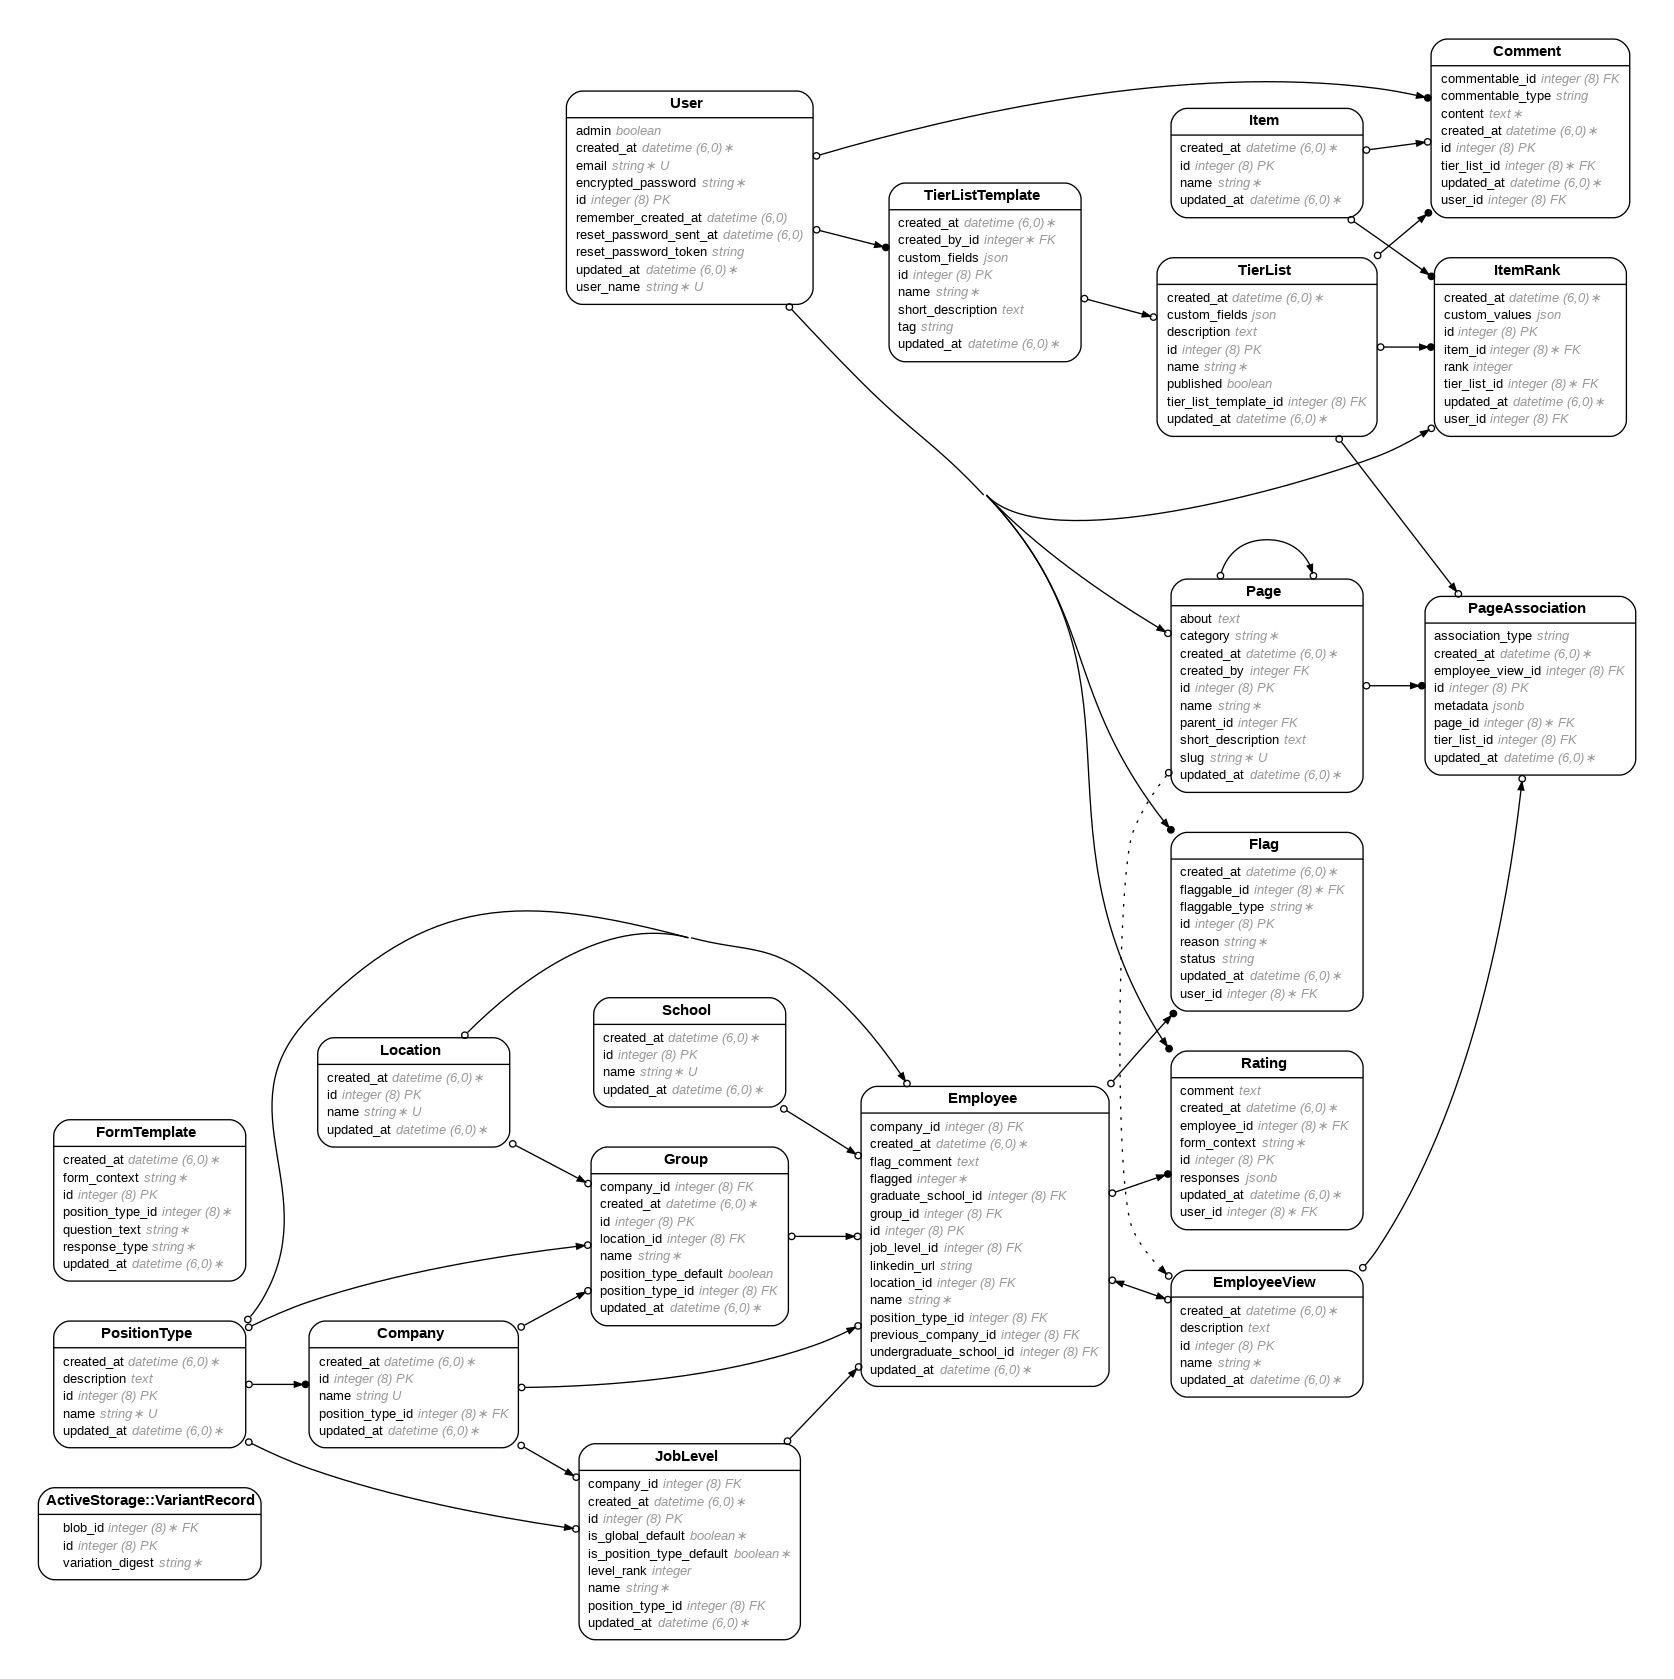
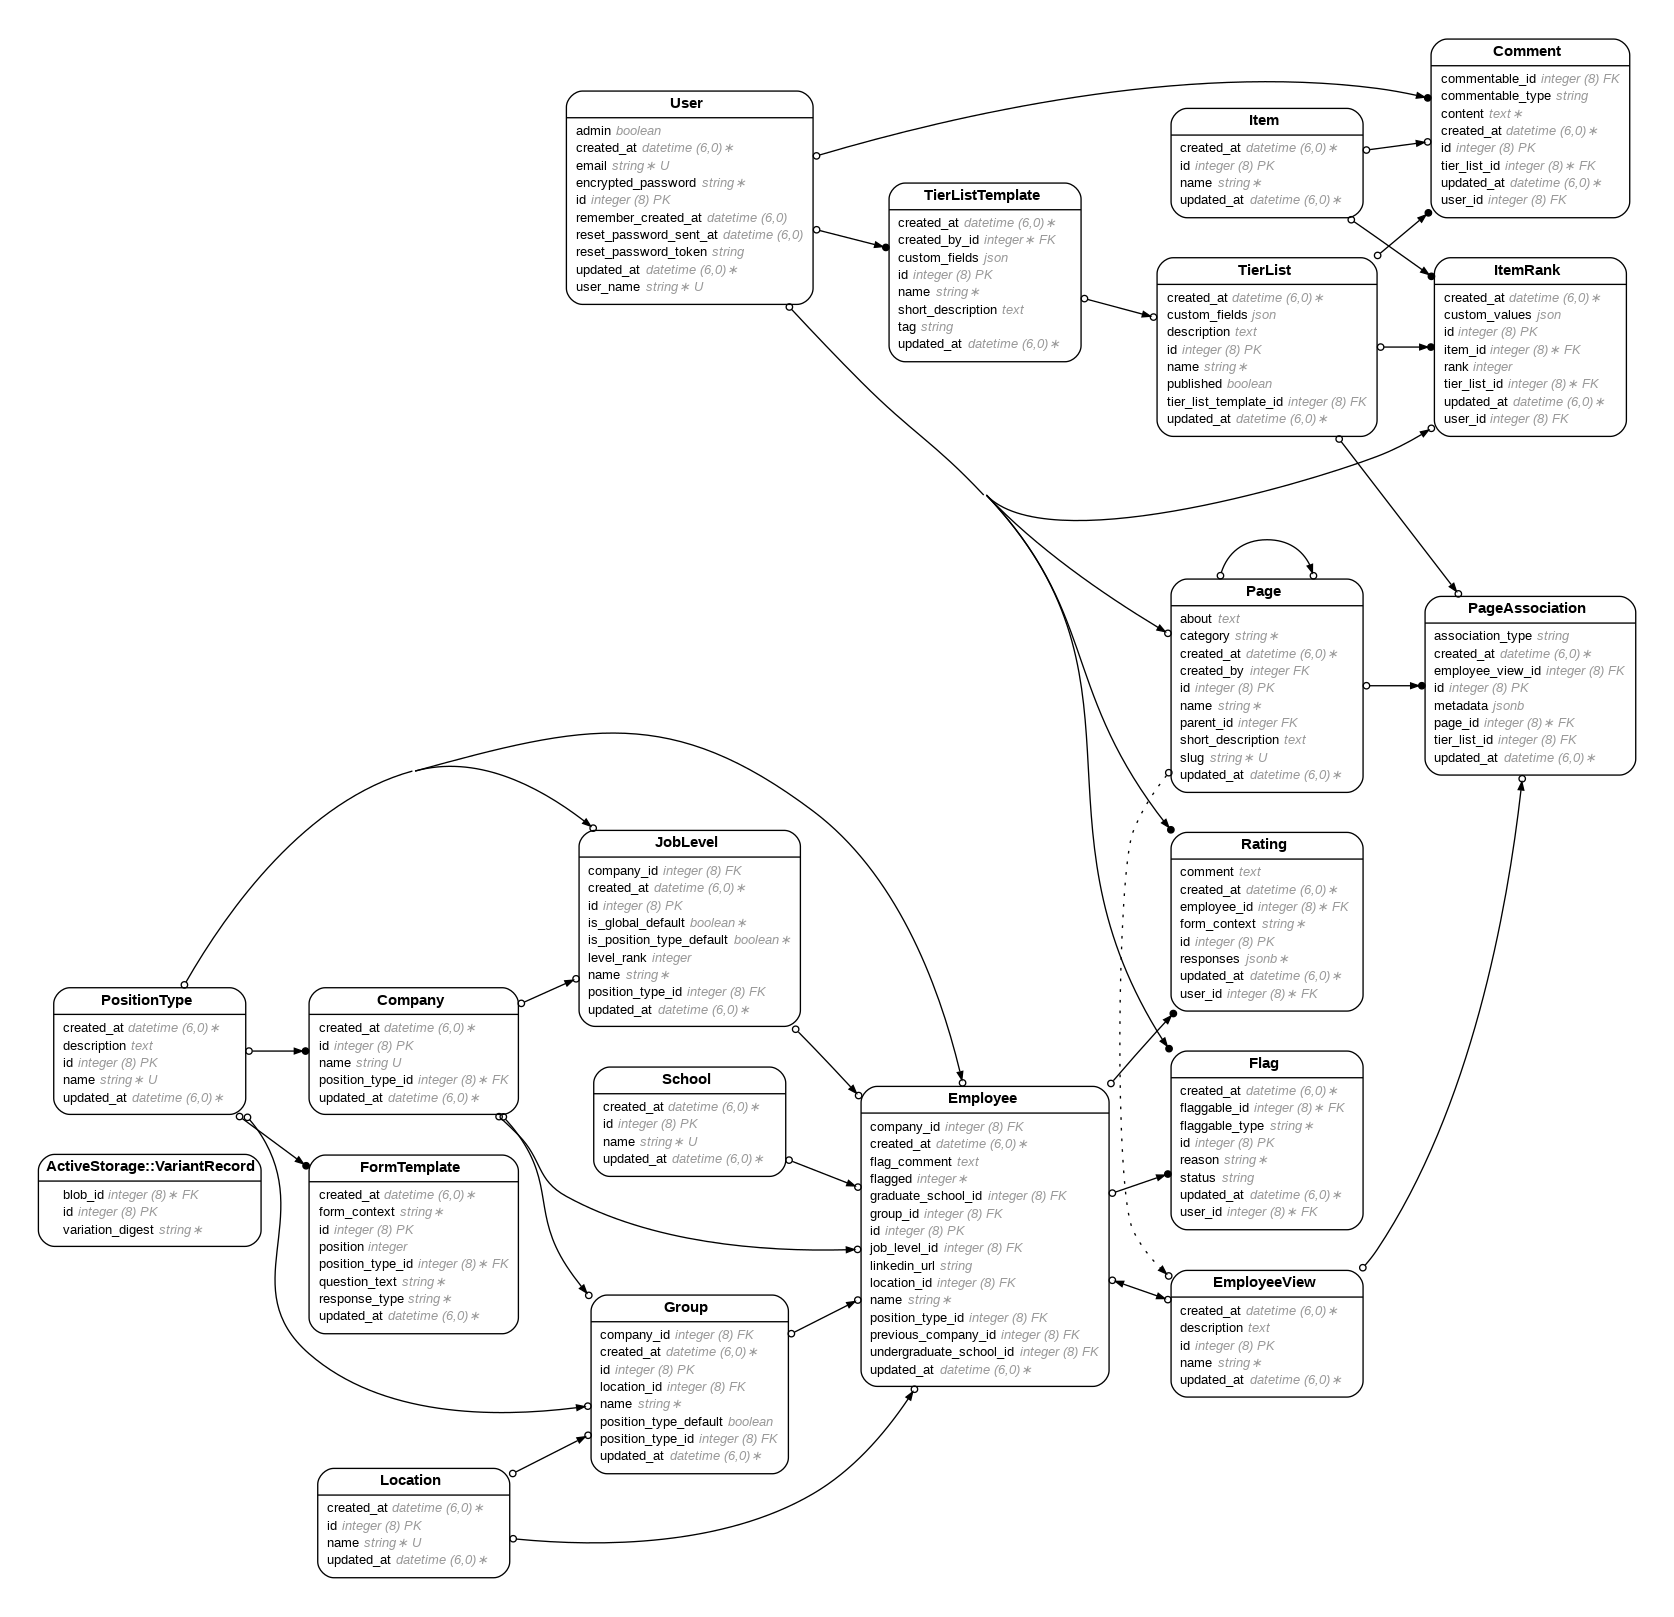
Added form templates to admin view

diff --git a/app/controllers/admin/form_templates_controller.rb b/app/controllers/admin/form_templates_controller.rb
@@ -1,0 +1,46 @@
+class Admin::FormTemplatesController < ApplicationController
+  before_action :set_form_template, only: [:edit, :update, :destroy]
+
+  def index
+    @form_templates = FormTemplate.includes(:position_type).order(:form_context, :position_type_id)
+  end
+
+  def new
+    @form_template = FormTemplate.new
+  end
+
+  def create
+    @form_template = FormTemplate.new(form_template_params)
+    if @form_template.save
+      redirect_to admin_form_templates_path, notice: 'Form template was successfully created.'
+    else
+      render :new, alert: 'There was an error creating the form template.'
+    end
+  end
+
+  def edit; end
+
+  def update
+    if @form_template.update(form_template_params)
+      redirect_to admin_form_templates_path, notice: 'Form template was successfully updated.'
+    else
+      render :edit, alert: 'There was an error updating the form template.'
+    end
+  end
+
+  def destroy
+    @form_template.destroy
+    redirect_to admin_form_templates_path, notice: 'Form template was successfully deleted.'
+  end
+
+  private
+
+  def set_form_template
+    @form_template = FormTemplate.find(params[:id])
+  end
+
+  def form_template_params
+    params.require(:form_template).permit(:position_type_id, :form_context, :question_text, :response_type, :position)
+  end
+  
+end

diff --git a/app/models/form_template.rb b/app/models/form_template.rb
@@ -4,6 +4,7 @@
 #
 #  id               :bigint           not null, primary key
 #  form_context     :string           not null
+#  position         :integer
 #  question_text    :string           not null
 #  response_type    :string           not null
 #  created_at       :datetime         not null
@@ -20,6 +21,16 @@
 #
 class FormTemplate < ApplicationRecord
   belongs_to :position_type
+  before_validation :set_default_position, on: :create
 
   validates :form_context, :question_text, :response_type, presence: true
+  
+  # Default scope to order by position
+  default_scope { order(:position) }
+
+  private
+
+  def set_default_position
+    self.position ||= (FormTemplate.maximum(:position) || 0) + 1
+  end
 end

diff --git a/db/schema.rb b/db/schema.rb
@@ -10,7 +10,7 @@
 #
 # It's strongly recommended that you check this file into your version control system.
 
-ActiveRecord::Schema[7.1].define(version: 2025_01_11_005345) do
+ActiveRecord::Schema[7.1].define(version: 2025_01_11_040115) do
   # These are extensions that must be enabled in order to support this database
   enable_extension "plpgsql"
 
@@ -125,6 +125,7 @@ ActiveRecord::Schema[7.1].define(version: 2025_01_11_005345) do
     t.datetime "created_at", null: false
     t.datetime "updated_at", null: false
     t.bigint "position_type_id", null: false
+    t.integer "position"
     t.index ["position_type_id"], name: "index_form_templates_on_position_type_id"
   end
 

diff --git a/config/routes.rb b/config/routes.rb
@@ -25,6 +25,7 @@ Rails.application.routes.draw do
     get 'dashboard', to: 'dashboard#index'
     resources :users, only: [:index, :destroy]
     resources :comments, only: [:index, :destroy]
+    resources :form_templates, only: [:index, :new, :create, :edit, :update, :destroy]
     resources :settings, only: [:index, :update]
     resources :pages do
       member do

diff --git a/db/migrate/20250111040115_add_position_to_form_templates.rb b/db/migrate/20250111040115_add_position_to_form_templates.rb
@@ -1,0 +1,5 @@
+class AddPositionToFormTemplates < ActiveRecord::Migration[7.1]
+  def change
+    add_column :form_templates, :position, :integer
+  end
+end
